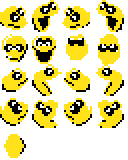
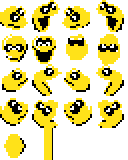
.

Changed region(s): [[0.3438, 0.7812, 0.4375, 1.0]]

diff --git a/index.html b/index.html
@@ -65,6 +65,9 @@ let eatSound;
 let dieSound;
 let hitSound;
 
+let isImmortal = false;
+let immortalityTicks = null;
+
 ///////////////////////////////////////////////////////////////////////////////
 function resetGame()
 {
@@ -81,9 +84,11 @@ function resetGame()
     bulletMoveTimer = new Timer(bulletMoveDelay);
     spiderSpawnTimer = new Timer(2);
     scorpionSpawnTimer = new Timer(3);
+    isImmortal = false;
+    immortalityTicks = null;
 }
 
-function spawnSpider()
+function spawnSpider(isPowerUp = false)
 {
     const fromTop = rand() < 0.5;
     const y = fromTop ? gridSize.y - 1 : 0;
@@ -104,27 +109,7 @@ function spawnSpider()
     if (!spiders.find(i => i.pos.x == p.x && i.pos.y == p.y) && 
         !snake.find(s => s.x == p.x && s.y == p.y))
     {
-        spiders.push({pos: p, dir: dir});
-    }
-}
-
-function spawnScorpion()
-{
-    const x = randInt(gridSize.x - 1); // -1 to account for 2x2 size
-    const p = vec2(x, gridSize.y - 1); // -1 to spawn with bottom 2 rows visible
-    // Check if all 4 positions are clear for 2x2 scorpion
-    const positions = [p, vec2(p.x+1, p.y), vec2(p.x, p.y+1), vec2(p.x+1, p.y+1)];
-    const allClear = positions.every(pos => 
-        !scorpions.find(b => {
-            const bPos = [b.pos, vec2(b.pos.x+1, b.pos.y), vec2(b.pos.x, b.pos.y+1), vec2(b.pos.x+1, b.pos.y+1)];
-            return bPos.some(bp => bp.x == pos.x && bp.y == pos.y);
-        }) &&
-        !spiders.find(i => i.pos.x == pos.x && i.pos.y == pos.y) &&
-        !snake.find(s => s.x == pos.x && s.y == pos.y)
-    );
-    if (allClear)
-    {
-        scorpions.push({pos: p, dir: vec2(0, -1)});
+        spiders.push({pos: p, dir: dir, isPowerUp: isPowerUp});
     }
 }
 
@@ -144,6 +129,7 @@ async function gameInit()
 let tickNumber = 0;
 let nextTurnSpawnScorpion = false;
 let lastScorptionPosition = null;
+let nextSpiderIsPowerUp = false;
 ///////////////////////////////////////////////////////////////////////////////
 function gameUpdate() {
     if (gameOver) {
@@ -164,7 +150,8 @@ function gameUpdate() {
     if (spiderSpawnTimer.elapsed())
     {
         spiderSpawnTimer.set(rand(1, 3));
-        spawnSpider();
+        spawnSpider(nextSpiderIsPowerUp);
+        nextSpiderIsPowerUp = false;
     }
 
     // spawn scorpion warnings
@@ -206,22 +193,29 @@ function gameUpdate() {
         justAte = false;
         tickNumber++;
         
+        // Spawn power-up every 100 ticks
+        if (tickNumber % 100 === 0 && !isImmortal)
+        {
+            nextSpiderIsPowerUp = true;
+        }
+        
         // Update scorpion warnings and spawn when ready
         for (let i = scorpionWarnings.length - 1; i >= 0; i--) {
             scorpionWarnings[i].countdown--;
-            if (scorpionWarnings[i].countdown <= 0)
+            if (scorpionWarnings[i].countdown === 0)
             {
                 const p = scorpionWarnings[i].pos;
                 const dir = scorpionWarnings[i].dir;
-                scorpions.push({pos: p, dir: dir});
+                scorpions.push({pos: p, dir: dir, isBlack: rand() < 0.20}); // 20% chance to spawn a black scorpion (faster)
                 scorpionWarnings.splice(i, 1);
             }
         }
 
         // move scorpions every 2 turns 
-        if (tickNumber % 2 === 0) { 
-            for (let i = scorpions.length - 1; i >= 0; i--)
-            {
+        
+        for (let i = scorpions.length - 1; i >= 0; i--)
+        {
+            if ((!scorpions[i].isBlack && tickNumber % 2 === 0) || scorpions[i].isBlack) { 
                 scorpions[i].pos = scorpions[i].pos.add(scorpions[i].dir);
                 // Remove when off screen (check both directions)
                 if (scorpions[i].pos.y < -1 || scorpions[i].pos.y >= gridSize.y || scorpions[i].pos.x < 0 || scorpions[i].pos.x + 1 >= gridSize.x)
@@ -288,6 +282,7 @@ function updateSnake()
 
     snake.unshift(head);
 
+
     // check if eating spider
     const invaderIndex = spiders.findIndex(i => 
         // if snake move towards spider
@@ -295,20 +290,20 @@ function updateSnake()
         // if spider moved onto snake head and was goin the opposite direction of the snake
         || (prevHead.x == i.pos.x && prevHead.y == i.pos.y && direction.x == -i.dir.x && direction.y == -i.dir.y) 
     );
-    if (invaderIndex !== -1)
+
+    // Update immortality timer
+    if (immortalityTicks > 0)
     {
-        score++;
-        eatSound.play();
-        spiders.splice(invaderIndex, 1);
-        // snake grows (don't pop tail)
-        justAte = true;
+        immortalityTicks--;
     }
-    else
+    if (isImmortal && immortalityTicks === 0)
     {
-        snake.pop();
+        isImmortal = false;
+        immortalityTicks = null;
     }
 
     // check if any scorpion hits any part of snake (check all 4 positions of 2x2 scorpion)
+    let ateScorpion = false;
     for (let i = scorpions.length - 1; i >= 0; i--)
     {
         const bulletPositions = [
@@ -338,22 +333,50 @@ function updateSnake()
 
         if (snakeIndex !== -1)
         {
-            hitSound.play();
-            // scorpions.splice(i, 1);
-            
-            // if head is hit game over
-            if (snakeIndex === 0)
+            if (isImmortal)
             {
-                die();
-                return;
+                // When immortal, eat the scorpion instead of taking damage
+                ateScorpion = true;
+                scorpions.splice(i, 1);
             }
-            
-            // remove the snake segment that was hit and everything after it (the tail is more likely to be hit and it's less punishing to lose length than to lose the head)
-            snake.splice(snakeIndex);
-            break;
-            
+            else
+            {
+                hitSound.play();
+                // scorpions.splice(i, 1);
+                
+                // if head is hit game over
+                if (snakeIndex === 0)
+                {
+                    die();
+                    return;
+                }
+                
+                // remove the snake segment that was hit and everything after it (the tail is more likely to be hit and it's less punishing to lose length than to lose the head)
+                snake.splice(snakeIndex);
+                break;
+            }
         }
     }
+
+    if (invaderIndex !== -1 || ateScorpion)
+    {
+        score++;
+        eatSound.play();
+        if (invaderIndex !== -1 && spiders[invaderIndex].isPowerUp) {
+            isImmortal = true;
+            immortalityTicks = 120; // 120 ticks of immortality
+            eatSound.play();
+            snake.pop();
+        }
+        spiders.splice(invaderIndex, 1);
+        // snake grows (don't pop tail)
+        justAte = true;
+    }
+    else
+    {
+        snake.pop();
+    }
+    
 
     // check if any spider hits the snake (non-head)
     // for (let i = spiders.length - 1; i >= 0; i--)
@@ -394,6 +417,8 @@ function gameRender()
     }
     // drawTile(cameraPos, gridSize, tile(0, vec2(1000, 1000), 4));
     const frame = (time*2)%2|0;
+    const blackScorFrame = (time*4)%2|0; // faster animation for black scorpions
+    let snakeSpritesheet = isImmortal ? 5 : 1; // use different spritesheet when immortal
 
     // scorpion warnings
     for (let warning of scorpionWarnings)
@@ -411,25 +436,13 @@ function gameRender()
     for (let spider of spiders)
     {
         // drawRect(spider.pos.add(vec2(.5)), vec2(1), hsl(.55,1,.5)); // cyan
+        const spriteSheet = spider.isPowerUp ? 6 : 0; // use different spritesheet for power-up spiders
         const pos = spider.pos.add(vec2(.5));
         // console.log(pos, frame);
-        drawTile(pos, vec2(1), tile(0, vec2(42, 42), 0).frame(frame));
+        drawTile(pos, vec2(1), tile(0, vec2(42, 42), spriteSheet).frame(frame));
     }
 
-    for (let i=1; i<snake.length; i++)
-    {
-        let angle = 0;
-        let tilePos = vec2(0,4);
-        // if right to left or left to right rotate it 90 degrees to better fit the line connection
-        if ((snake[i].y == snake[i-1].y) && (i === snake.length - 1 || snake[i].y == snake[i+1].y)) {
-            angle = 90 * (Math.PI / 180);
-        }
-        const newTile = tile(tilePos.y * 4 + tilePos.x, vec2(32, 32), 1);
-        drawTile(snake[i].add(vec2(.5)), vec2(1), newTile, undefined, angle);
-    }
-
-
-    // draw lines between snake segments
+        // draw lines between snake segments
     for (let i = 0; i < snake.length - 1; i++)
     {
         let start = snake[i].add(vec2(.5));
@@ -440,8 +453,35 @@ function gameRender()
             start = start.add(vec2(-.1, 0));
             end = end.add(vec2(-.1, 0));
         }
-        drawLine(start, end, .3, hsl(.147, 1, .55));
+        let angle = 0;
+        if (snake[i].y === snake[i+1].y) {
+            angle = 90 * (Math.PI / 180);
+        }
+
+        // drawLine(start, end, .3, hsl(.147, 1, .55));
+        // Instead of drawing the line using drawLine lets draw the line manually by using a tile
+        drawTile(
+            start.lerp(end, 0.5), // position the tile in the middle of the two segments
+            vec2(1, end.distance(start)), // scale the tile to be as long as the distance between the two segments
+            tile(17, vec2(32, 32), snakeSpritesheet), // use the line tile from the spritesheet
+            undefined,
+            angle
+        );
     }
+
+
+    for (let i=1; i<snake.length; i++)
+    {
+        let angle = 0;
+        // if right to left or left to right rotate it 90 degrees to better fit the line connection
+        if ((snake[i].y == snake[i-1].y) && (i === snake.length - 1 || snake[i].y == snake[i+1].y)) {
+            angle = 90 * (Math.PI / 180);
+        }
+        const newTile = tile(16, vec2(32, 32), snakeSpritesheet);
+        drawTile(snake[i].add(vec2(.5)), vec2(1), newTile, undefined, angle);
+    }
+
+
 
     /*
     snake spritesheet is
@@ -450,7 +490,7 @@ function gameRender()
         [bottom, bottom_eating, top, top_eating],
         [right, right_eating, left, left_eating],
         [top_right, top_right_eating, top_left, top_left_eating],
-        [body]
+        [body, line]
     ]
     */
     let headPos;
@@ -471,7 +511,7 @@ function gameRender()
     // top_left
     else if (direction.x == -1 && direction.y == 1) headPos = vec2(2,3);
     
-    const headTile = tile(headPos.y * 4 + headPos.x, vec2(32, 32), 1);
+    const headTile = tile(headPos.y * 4 + headPos.x, vec2(32, 32), snakeSpritesheet);
     drawTile(snake[0].add(vec2(.5)), vec2(1), headTile.frame(justAte ? 1 : 0));
 
     
@@ -483,7 +523,7 @@ function gameRender()
         drawTile(
             scorpion.pos.add(vec2(1)),
             vec2(1.5, 3),
-            tile(0, vec2(64, 122), 2).frame(frame),
+            tile(0, vec2(64, 122), scorpion.isBlack ? 7 : 2).frame( scorpion.isBlack ? blackScorFrame : frame),
             WHITE,
             scorpion.dir.y > 0 ? 180 * (Math.PI / 180) : 0,
         );
@@ -502,7 +542,12 @@ function gameRender()
 ///////////////////////////////////////////////////////////////////////////////
 function gameRenderPost()
 {
-    drawTextScreen(`Score: ${score}  Length: ${snake.length}`, vec2(mainCanvasSize.x/2, 40), 40, WHITE, 4, BLACK);
+    let statusText = `Score: ${score}  Length: ${snake.length}`;
+    if (isImmortal && immortalityTicks)
+    {
+        statusText += `  IMMORTAL: ${immortalityTicks}s`;
+    }
+    drawTextScreen(statusText, vec2(mainCanvasSize.x/2, 40), 40, WHITE, 4, BLACK);
 
     if (gameOver)
     {
@@ -513,6 +558,7 @@ function gameRenderPost()
 
 ///////////////////////////////////////////////////////////////////////////////
 engineInit(gameInit, gameUpdate, gameUpdatePost, gameRender, gameRenderPost, 
-['spider_42x42.png', 'snake_32x32.png', 'scorpion_64x122.png', 'warning_64x64.png', 'background_tile_16x16.png', 'stone_snake_32x32.png']);
+['spider_42x42.png', 'snake_32x32.png', 'scorpion_64x122.png', 'warning_64x64.png',
+'background_tile_16x16.png', 'stone_snake_32x32.png', 'spider_powerup_42x42.png', 'black_scorpion_64x122.png']);
 
 </script>
